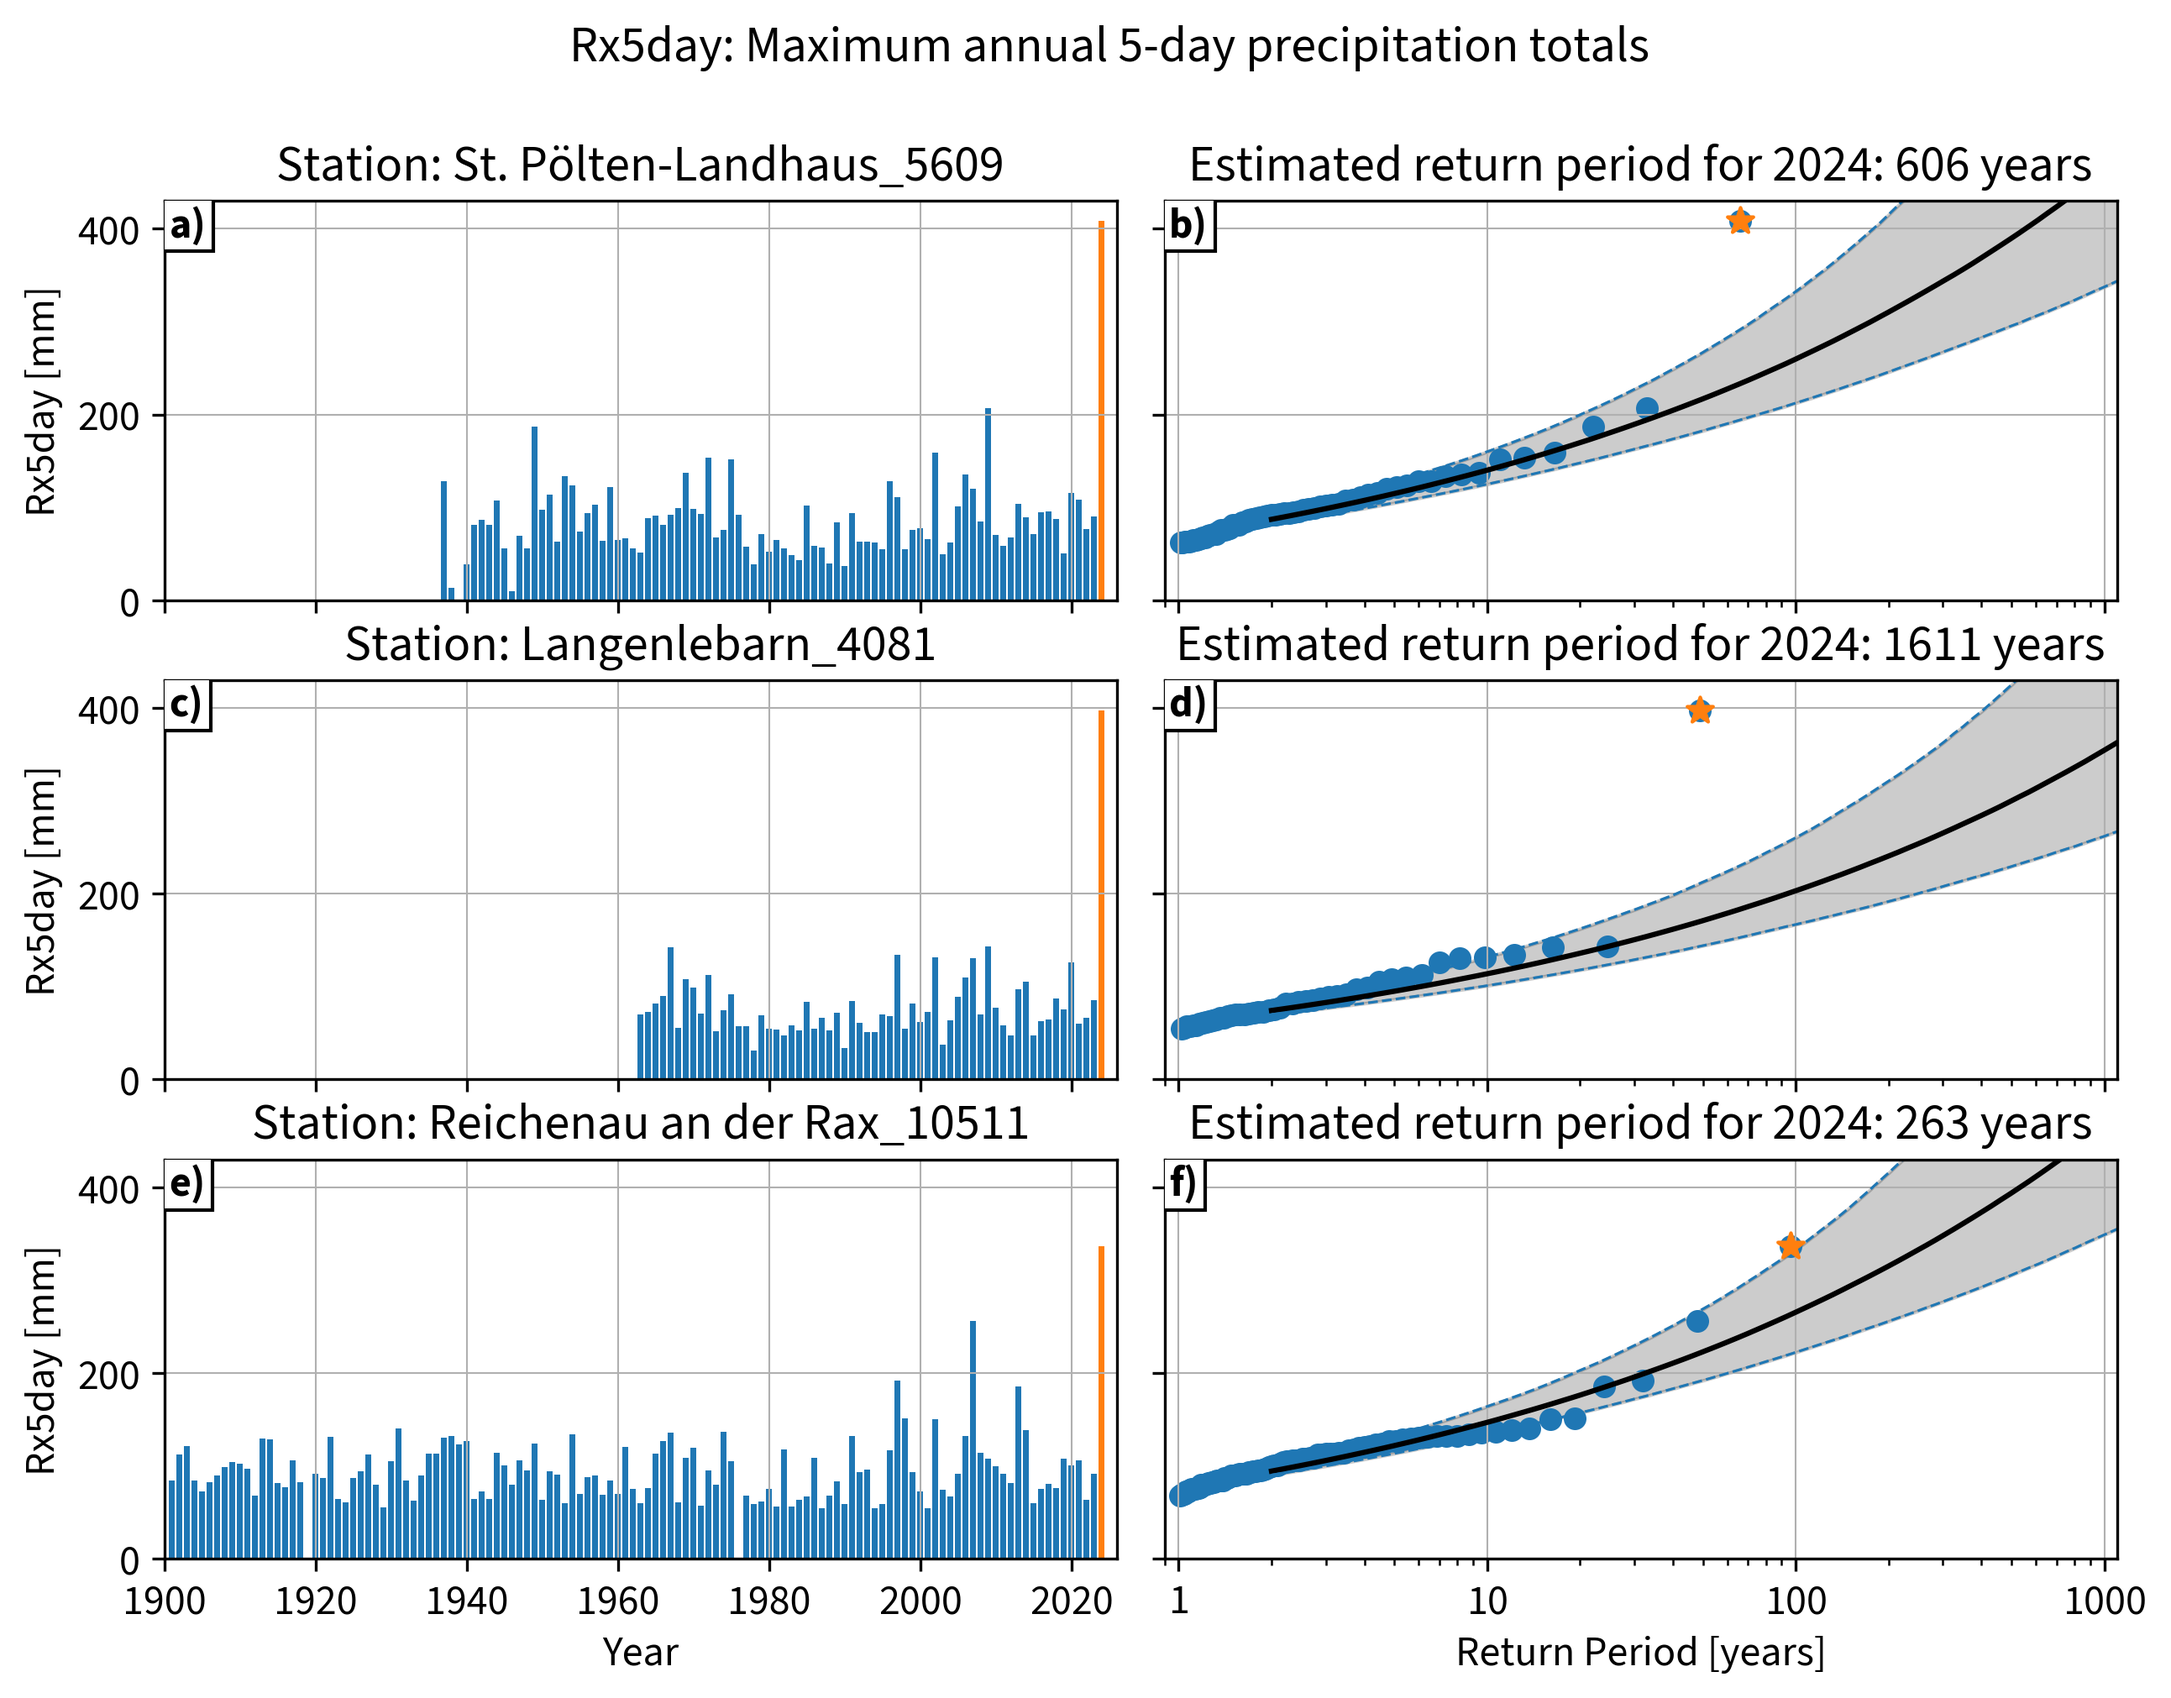
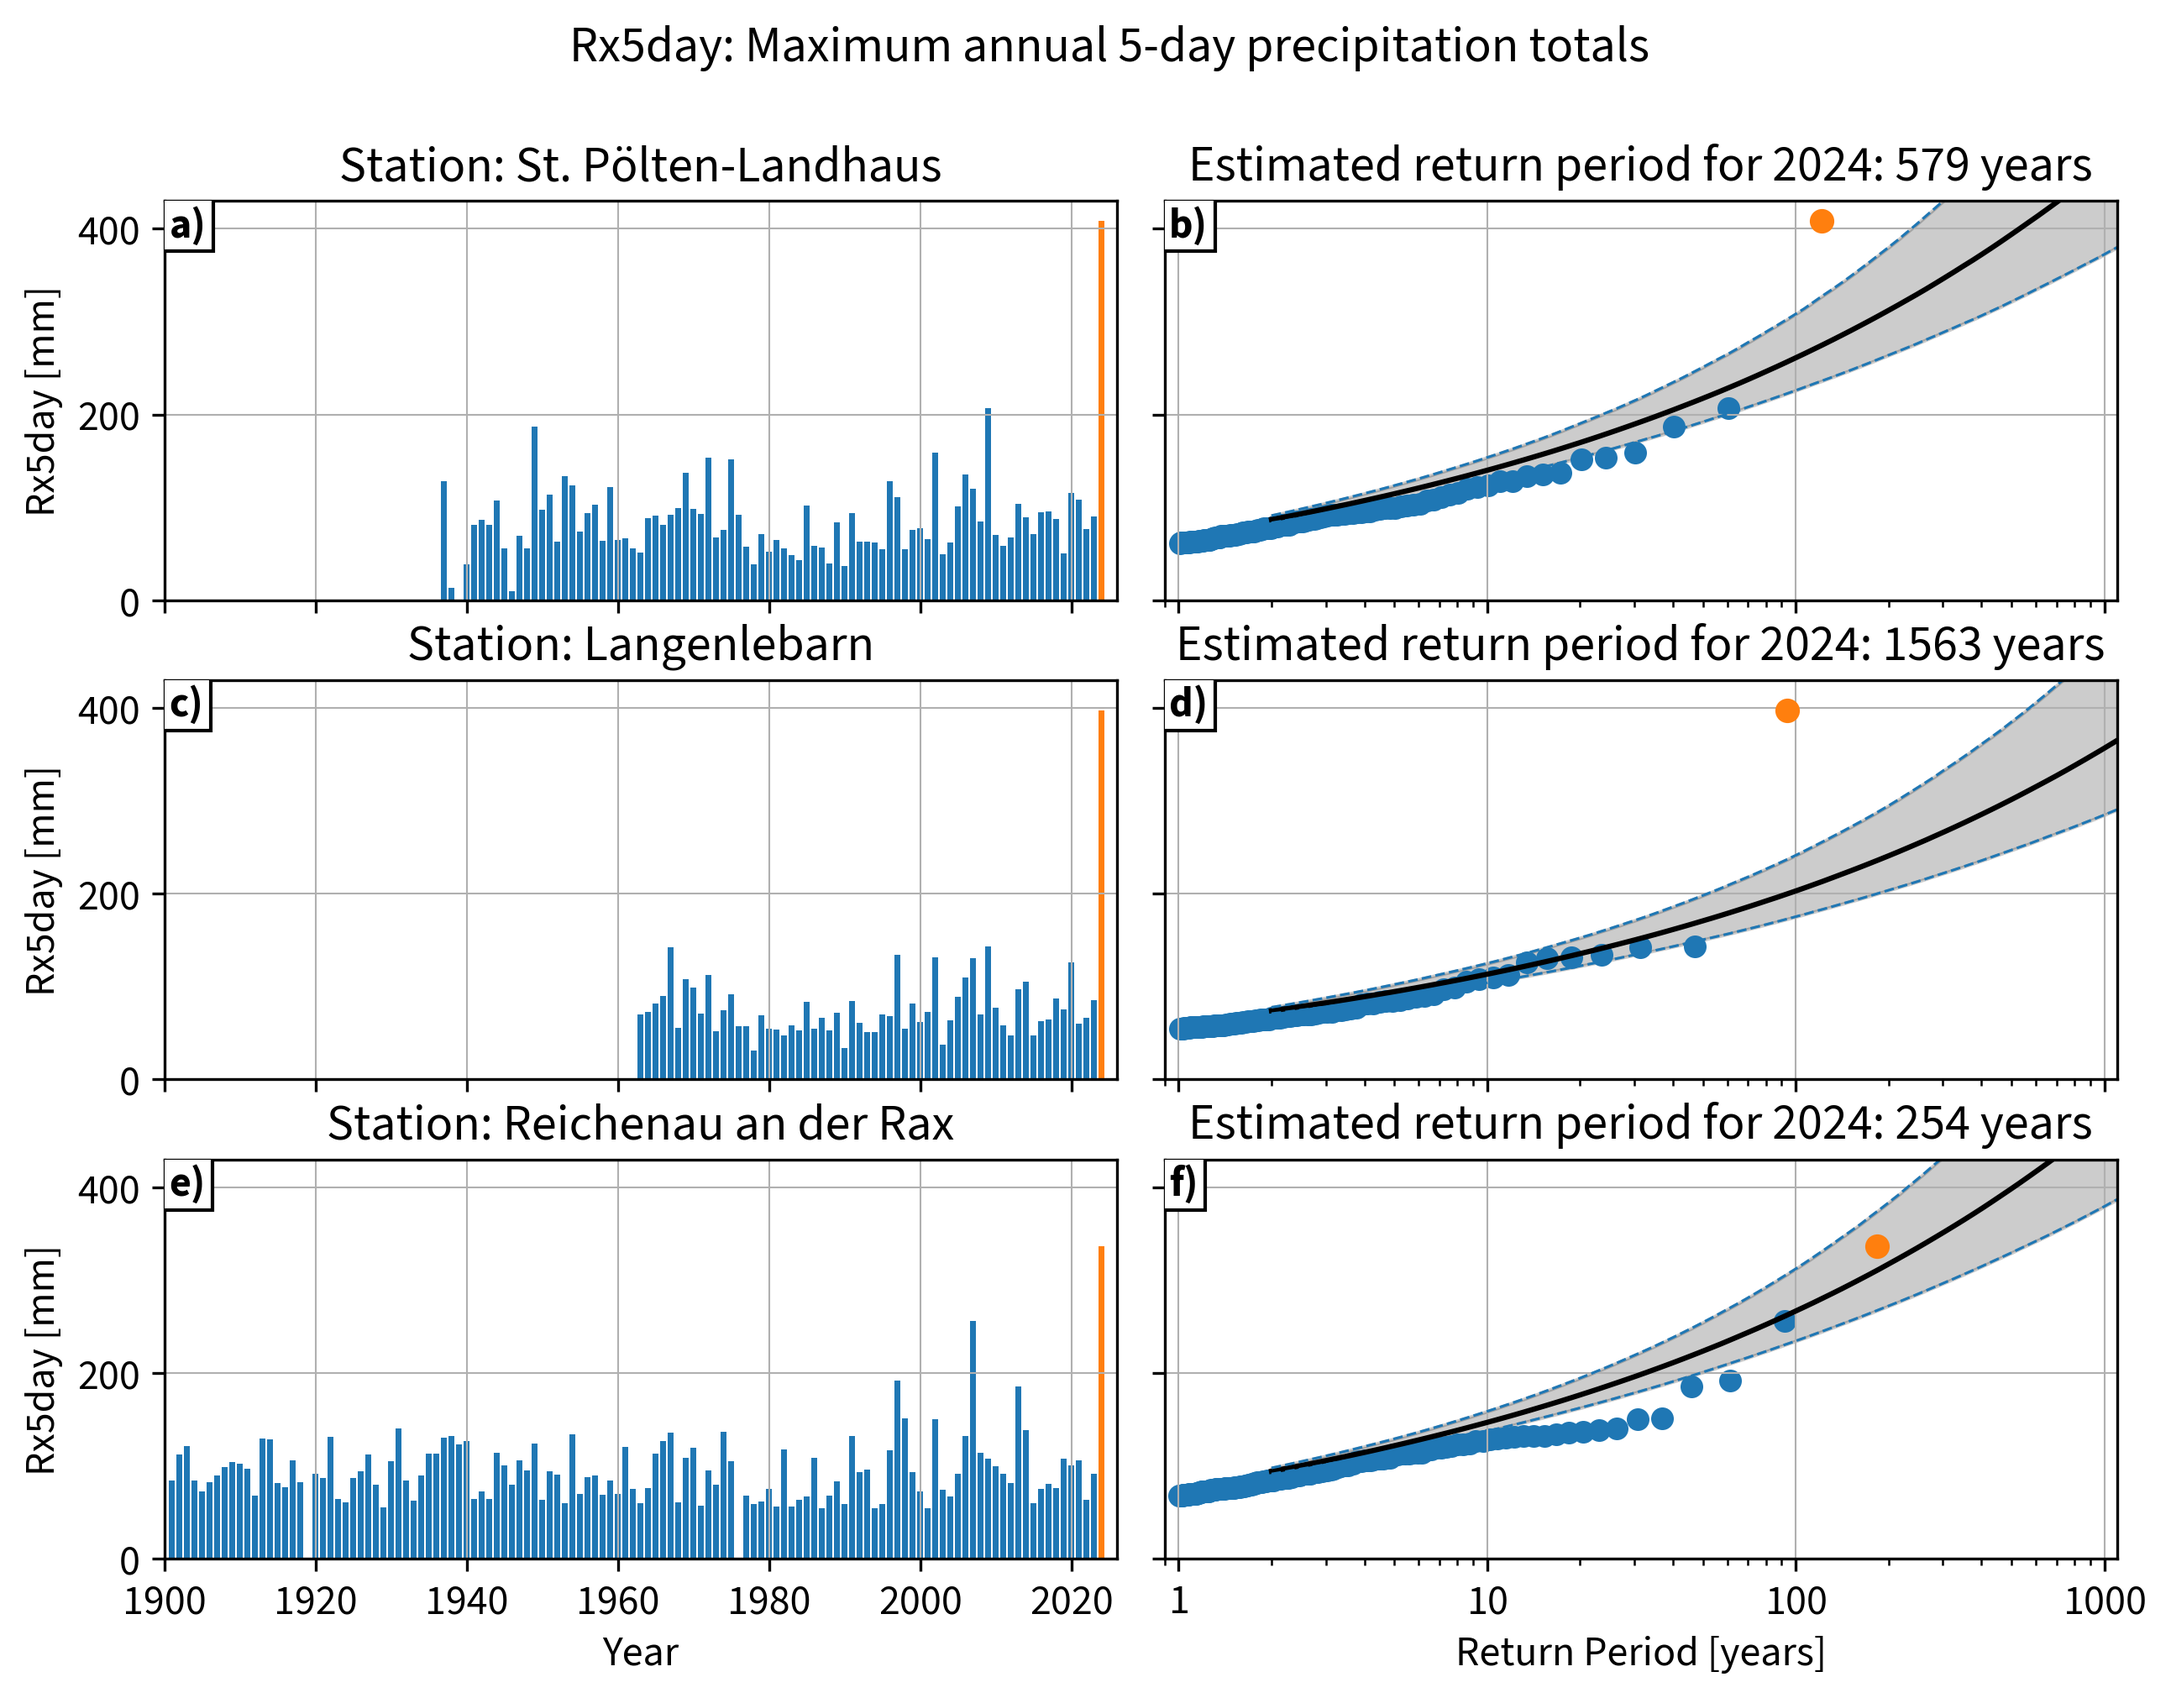
DEV: Update fig2 with plotted exceedances

diff --git a/main.py b/main.py
@@ -458,7 +458,7 @@ def plot_timeseries(
 
         ax1.bar(years[:-1], ts.iloc[:-1], color="C0", width=0.8)
         ax1.bar(years[-1], ts.iloc[-1], color="C1", width=0.8, label="2024")
-        ax1.set_title(f"Station: {ts.name}")
+        ax1.set_title(f"Station: {ts.name.split('_')[0]}")
         ax1.set_ylabel("Rx5day [mm]")
         ax1.grid(linewidth=0.5)
         ax1.set_xlim(1900, 2026)
@@ -484,7 +484,7 @@ def plot_timeseries(
 
         rp2024 = rp["rp_obs"].max()
         rl2024 = rp["rl_obs"].max()
-        ax2.scatter(x=rp2024, y=rl2024, s=60, marker="*", color="C1", zorder=20)
+        ax2.scatter(x=rp2024, y=rl2024, color="C1", zorder=20)
         mod_rp_2024 = mod_rp["rp_median"].max()
         ax2.set_title(f"Estimated return period for 2024: {mod_rp_2024:.0f} years")
         ax2.set_ylabel("")
@@ -592,6 +592,7 @@ if __name__ == "__main__":
         dfrl_list = []
         mod_obs_list = []
         emp_obs_list = []
+        exceedances_list = []
         for stationname, content in rls.items():
             dfrl_iter = pd.DataFrame(content["rls"])
             dfrl_list.append(dfrl_iter)
@@ -599,13 +600,18 @@ if __name__ == "__main__":
             mod_obs_list.append(dfmo_iter)
             dfeo_iter = pd.DataFrame(content["empirical_obs"])
             dfeo_iter["station"] = stationname
+            dfexceedances_iter = pd.DataFrame(content["empirical_obs_exc"])
+            dfexceedances_iter["station"] = stationname
             emp_obs_list.append(dfeo_iter)
+            exceedances_list.append(dfexceedances_iter)
         dfrl = pd.concat(dfrl_list, ignore_index=True)
         dfmo = pd.concat(mod_obs_list, ignore_index=True)
         dfeo = pd.concat(emp_obs_list, ignore_index=True)
+        dfexceedances = pd.concat(exceedances_list, ignore_index=True)
         dfrl.to_csv(str(Path(data_dir, "rls.csv")), index=False)
         dfmo.to_csv(str(Path(data_dir, "modeled_obs.csv")), index=False)
         dfeo.to_csv(str(Path(data_dir, "empirical_obs.csv")), index=False)
+        dfexceedances.to_csv(str(Path(data_dir, "empirical_obs_exc.csv")), index=False)
 
         df["date"] = pd.to_datetime(df["datum"], format="%d.%m.%Y")
         dfpivot = df.pivot(index="date", columns="name_id", values="nied [mm]")
@@ -645,4 +651,4 @@ if __name__ == "__main__":
             "Reichenau an der Rax_10511",
         ]
 
-        plot_timeseries(rx5day_year, dfeo, dfrl, dfmo, cols=station_plots)
+        plot_timeseries(rx5day_year, dfexceedances, dfrl, dfmo, cols=station_plots)
